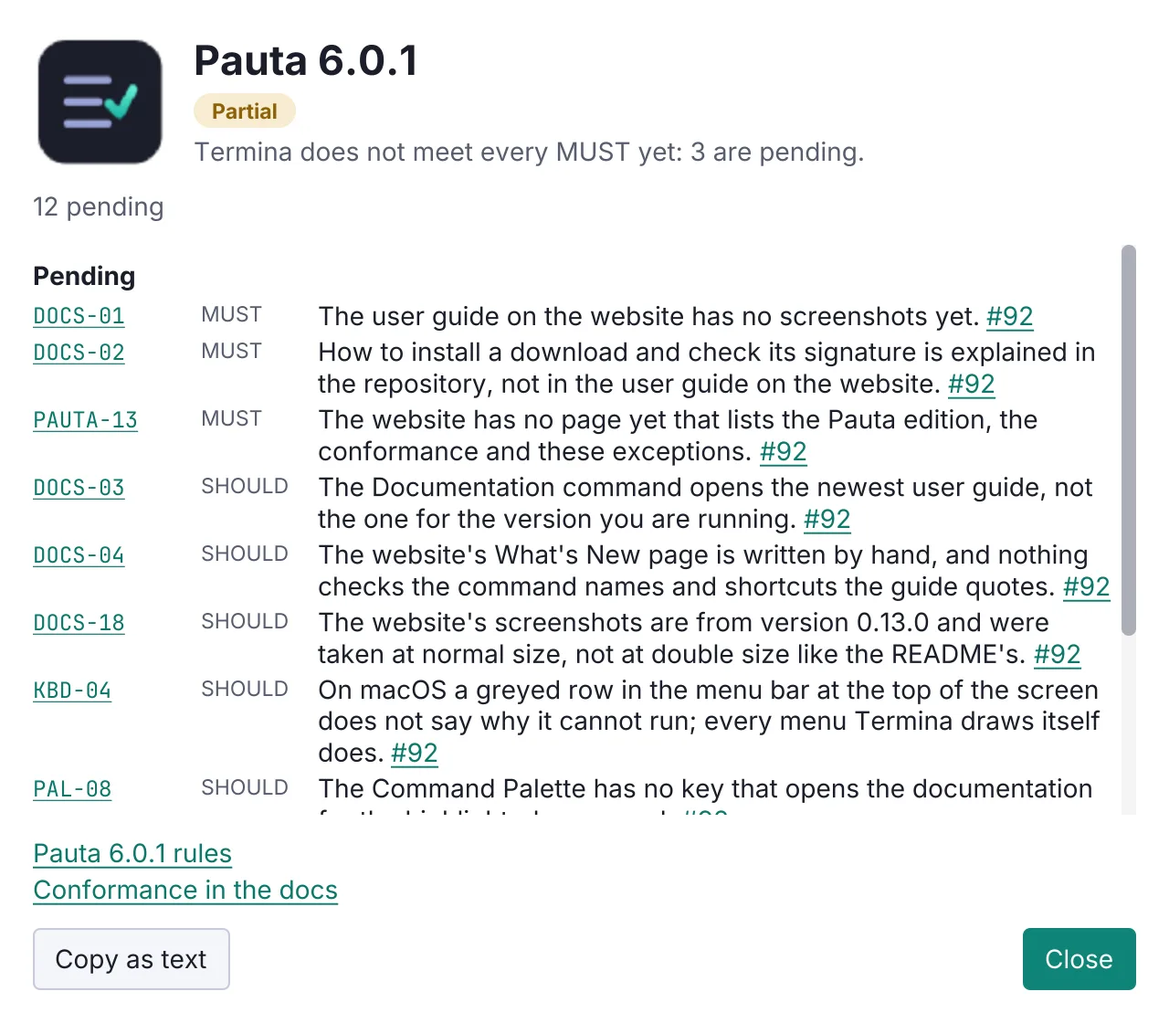
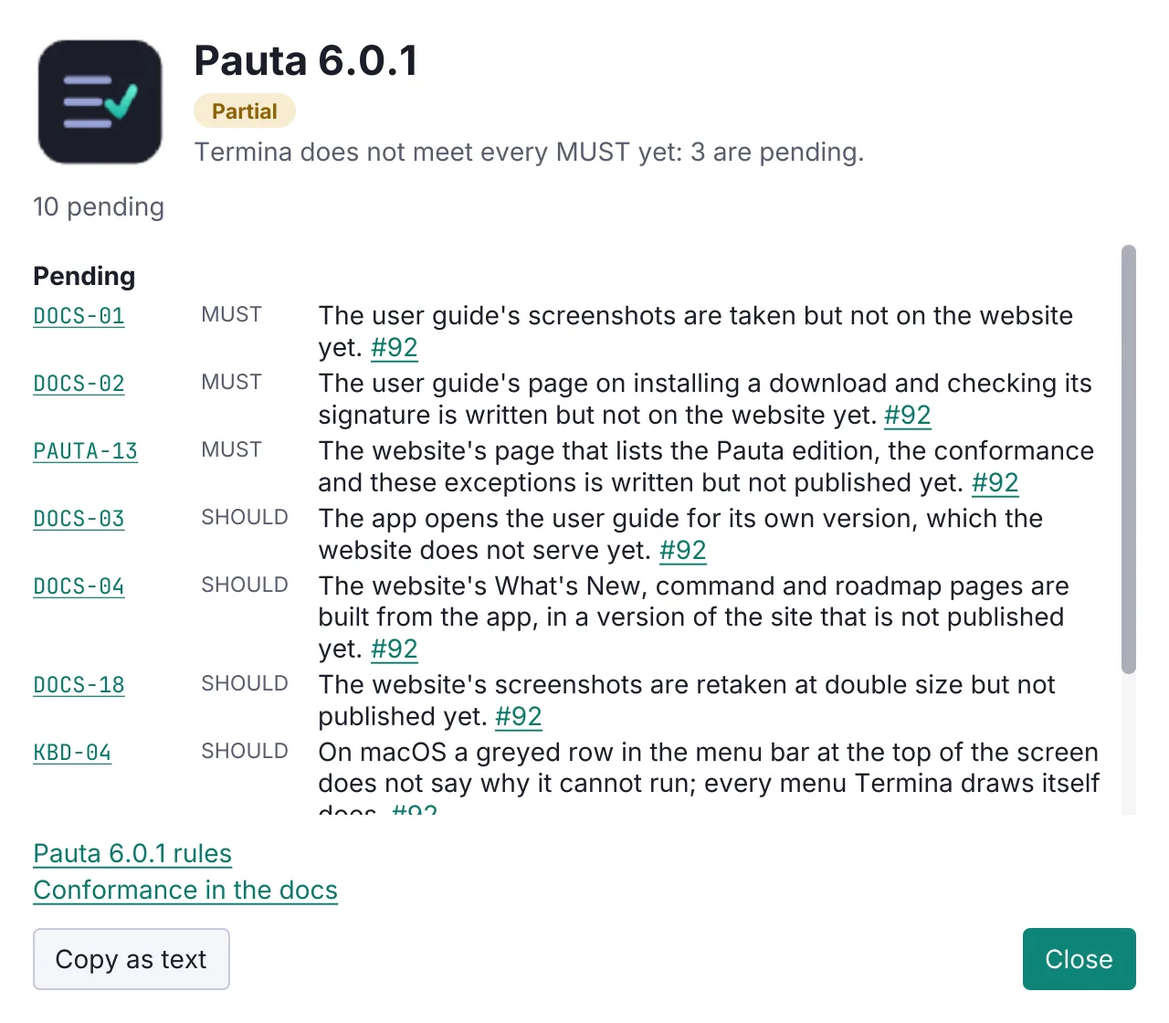
Pickers, Cancel List and the window modes in the guide; regenerated from the app
- keyboard: a Pickers section with its picture; cancelling a list is a fifth
  list command beside the four that move.
- appearance: Zen, Expert and Simple modes; Select Color Theme.
- shell-profiles: New Tab from Profile.
- settings: ui.simpleMode in the key table.
- commands.ts, whats-new.md, roadmap.md, whatsnew.ts and pauta.md regenerated
  from Termina's pauta-6.0.1-last branch as 0.15.0: 122 commands, 10
  exceptions. They are regenerated from the v0.15.0 tag before this merges.
- The Settings and conformance pictures retaken; a picker picture added, and
  its line in scripts/screenshots.sh.

diff --git a/src/lib/commands.ts b/src/lib/commands.ts
@@ -19,6 +19,7 @@ export const commandGroups: CmdGroup[] = [
       { id: "file.closeTabsToTheRight", title: "Close Tabs to the Right", desc: "Closes the tabs to the right of this one, asking once if any is still running a program.", pc: null, mac: null },
       { id: "file.closeWindow", title: "Close Window", desc: "Closes this window and every tab in it.", pc: ["Ctrl", "Shift", "Q"], mac: ["Shift", "Cmd", "W"] },
       { id: "file.newTab", title: "New Tab", desc: "Opens a tab running the default shell.", pc: ["Ctrl", "Shift", "T"], mac: ["Cmd", "T"] },
+      { id: "file.newTabFromProfile", title: "New Tab from Profile…", desc: "Lists every profile by name, with the command it runs, and opens a tab running the one you choose.", pc: null, mac: null },
       { id: "file.newTabProfile1", title: "New Tab With Profile 1", desc: "Opens a tab running profile 1, counted in the profile menu's order.", pc: ["Ctrl", "Shift", "1"], mac: ["Option", "Cmd", "1"] },
       { id: "file.newTabProfile2", title: "New Tab With Profile 2", desc: "Opens a tab running profile 2, counted in the profile menu's order.", pc: ["Ctrl", "Shift", "2"], mac: ["Option", "Cmd", "2"] },
       { id: "file.newTabProfile3", title: "New Tab With Profile 3", desc: "Opens a tab running profile 3, counted in the profile menu's order.", pc: ["Ctrl", "Shift", "3"], mac: ["Option", "Cmd", "3"] },
@@ -58,9 +59,15 @@ export const commandGroups: CmdGroup[] = [
       { id: "view.messageLog", title: "Message Log", desc: "Lists what Termina has reported this session, newest first, with the time of each.", pc: null, mac: null },
       { id: "view.nextPrompt", title: "Next Prompt", desc: "Scrolls down to the next prompt, and back to the live screen after the last.", pc: ["Ctrl", "Shift", "Down"], mac: ["Cmd", "Down"] },
       { id: "view.previousPrompt", title: "Previous Prompt", desc: "Scrolls up to the prompt before this one. Needs the shell to mark its prompts.", pc: ["Ctrl", "Shift", "Up"], mac: ["Cmd", "Up"] },
+      { id: "view.selectCursorShape", title: "Select Cursor Shape…", desc: "Lists the cursor shapes to choose from.", pc: null, mac: null },
+      { id: "view.selectFont", title: "Select Font…", desc: "Lists the monospace fonts on this computer to choose from by typing.", pc: null, mac: null },
+      { id: "view.selectTheme", title: "Select Color Theme…", desc: "Lists every color theme to choose from by typing. Each one is shown as you move to it, and Escape puts back the one you had.", pc: null, mac: null },
+      { id: "view.toggleExpert", title: "Expert Mode", desc: "Hides this window’s menu bar and tab strip and keeps the status bar. No setting changes: leaving the mode brings them back as they were.", pc: null, mac: null },
       { id: "view.toggleMenuBar", title: "Hide Menu Bar", desc: "Hides the menu bar; the right-click menu brings it back.", pc: ["Ctrl", "Shift", "M"], mac: ["Shift", "Cmd", "M"] },
+      { id: "view.toggleSimpleMode", title: "Simple Mode", desc: "Shortens the menu bar to the commands a terminal is used for on the first day, in every window. Every command stays in the Command Palette.", pc: null, mac: null },
       { id: "view.toggleStatusBar", title: "Show Status Bar", desc: "Shows or hides the row under the terminal that says what the last command reported.", pc: null, mac: null },
       { id: "view.toggleTabBar", title: "Show Tab Bar", desc: "Shows or hides the row of tabs, however many are open; hidden, the tabs are still reached by their shortcuts and the Command Palette.", pc: null, mac: null },
+      { id: "view.toggleZen", title: "Zen Mode", desc: "Hides this window’s menu bar, tab strip and status bar, leaving the terminal alone. No setting changes: leaving the mode brings them back as they were.", pc: null, mac: null },
       { id: "view.uiZoomIn", title: "Zoom Interface In", desc: "Makes the menus, tabs, status bar and every other window larger; the terminal text keeps its own size.", pc: null, mac: null },
       { id: "view.uiZoomOut", title: "Zoom Interface Out", desc: "Makes the menus, tabs, status bar and every other window smaller; the terminal text keeps its own size.", pc: null, mac: null },
       { id: "view.uiZoomReset", title: "Reset Interface Zoom", desc: "Returns the menus, tabs, status bar and every other window to 100%.", pc: null, mac: null },
@@ -102,6 +109,7 @@ export const commandGroups: CmdGroup[] = [
   {
     title: "Lists",
     commands: [
+      { id: "nav.cancel", title: "Cancel List", desc: "Closes a list without choosing: the Command Palette, a picker and the Message Log, where its key works. Escape always does the same.", pc: ["Ctrl", "G"], mac: ["Ctrl", "G"] },
       { id: "nav.lineDown", title: "Line Down", desc: "Moves down a line in a list: the Command Palette and the pickers, where its key works. Run as a command, it scrolls the terminal a line towards the newest output.", pc: ["Ctrl", "N"], mac: ["Ctrl", "N"] },
       { id: "nav.lineUp", title: "Line Up", desc: "Moves up a line in a list: the Command Palette and the pickers, where its key works. Run as a command, it scrolls the terminal a line back into its history.", pc: ["Ctrl", "P"], mac: ["Ctrl", "P"] },
       { id: "nav.pageDown", title: "Page Down", desc: "Moves down a page in a list: the Command Palette and the pickers, where its key works. Run as a command, it scrolls the terminal a page towards the newest output.", pc: ["Ctrl", "V"], mac: ["Ctrl", "V"] },
@@ -161,4 +169,4 @@ export const commandGroups: CmdGroup[] = [
   },
 ];
 
-export const commandCount = 114;
+export const commandCount = 122;

diff --git a/src/lib/whatsnew.ts b/src/lib/whatsnew.ts
@@ -6,12 +6,12 @@ export type NewsItem = { title: string; detail: string };
 
 export const whatsNew: NewsItem[] = [
   { title: "Termina 0.15.0", detail: "Out for macOS (Apple Silicon and Intel), Windows (x64) and Linux (x64 and ARM64), each installer with its own Java runtime." },
+  { title: "Three window modes", detail: "In the View menu, the Command Palette and bindable under Settings ▸ Keyboard: - Zen Mode hides the window's menu bar, tab strip and status bar and leaves the terminal alone. - Expert Mode hides the menu bar and the tab strip and keeps the status bar." },
+  { title: "Pickers: a list to type into for a choice from a list", detail: "Four commands, in the Command Palette and bindable under Settings ▸ Keyboard: Select Color Theme, Select Font, Select Cursor Shape and New Tab from Profile. Each opens on the value in force." },
+  { title: "Cancelling a list is a command, Cancel List", detail: "On Ctrl+G by default and bindable under Settings ▸ Keyboard like the four that move a line and a page. The Command Palette, the pickers and the Message Log all close on its chord, and on Escape whatever is bound." },
+  { title: "The Message Log moves on Ctrl+N and Ctrl+P and closes on Ctrl+G", detail: "The keys of the palette and the pickers, or whichever chords you have given those commands." },
+  { title: "A help key in the Command Palette", detail: "Ctrl+H opens the highlighted command's page of the user guide in your browser; the palette stays open. It is F1, or Shift+F1, if you have given Ctrl+H to a command." },
   { title: "A High Contrast theme", detail: "White on black, a single cyan accent, and every colour of the terminal and of the windows at 7:1 or better on the black. Choose it like any theme." },
-  { title: "The tabs you had open come back at the next launch", detail: "Each tab and pane reopens as a new shell in the folder it was in, with the names you gave, the pinned tabs pinned and the same tab in front. The programs that were running are not started again, and a tab opened with <code>-e</code> comes back as a shell." },
-  { title: "Each page of Settings ends in a link to its help", detail: "Help for Appearance, Help for Profiles and so on, opening that page of the documentation." },
-  { title: "<code>TODO.md</code>", detail: "<code>TODO.md</code> is the open list: the Pauta rules not met yet, what has never been run, and the terminal features not done. It changes in the same pull request as the work." },
-  { title: "Help ▸ Doctor", detail: "Help ▸ Doctor checks what Termina relies on: the shell it starts, its settings folder, Git and the GitHub CLI for settings sync, and on Linux the tools for the selection clipboard, notifications and opening links. Each row says OK, Missing, Optional or Problem in words, with what was found, and a row that is not OK says what to install and links to it." },
-  { title: "<code>--dev</code>", detail: "<code>--dev</code> keeps a separate set of settings in <code>~/.termina-dev</code>, so a build being tried out never touches the ones in daily use. <code>--config-dir</code> still takes precedence, and <code>--dev</code> wins over <code>TERMINA_CONFIG_DIR</code>: what is typed on the command line is the more specific instruction." },
 ];
 
 export const next: NewsItem[] = [

diff --git a/src/content/docs/pauta.md b/src/content/docs/pauta.md
@@ -29,19 +29,17 @@ and the conformance.
 
 ## Pending
 
-Rules Termina does not meet yet. Each one links the issue that tracks it. 12 rules: 3 MUST, 9 SHOULD.
+Rules Termina does not meet yet. Each one links the issue that tracks it. 10 rules: 3 MUST, 7 SHOULD.
 
 | Rule | Level | What is different | Link |
 |---|---|---|---|
-| <a href="https://pauta-project.dev/6.0.1/documentation/#docs-01" style="white-space: nowrap"><code>DOCS-01</code></a> | MUST | The user guide on the website has no screenshots yet. | [#92](https://github.com/adriandeleon/Termina/issues/92) |
-| <a href="https://pauta-project.dev/6.0.1/documentation/#docs-02" style="white-space: nowrap"><code>DOCS-02</code></a> | MUST | How to install a download and check its signature is explained in the repository, not in the user guide on the website. | [#92](https://github.com/adriandeleon/Termina/issues/92) |
-| <a href="https://pauta-project.dev/6.0.1/conformance/#pauta-13" style="white-space: nowrap"><code>PAUTA-13</code></a> | MUST | The website has no page yet that lists the Pauta edition, the conformance and these exceptions. | [#92](https://github.com/adriandeleon/Termina/issues/92) |
-| <a href="https://pauta-project.dev/6.0.1/documentation/#docs-03" style="white-space: nowrap"><code>DOCS-03</code></a> | SHOULD | The Documentation command opens the newest user guide, not the one for the version you are running. | [#92](https://github.com/adriandeleon/Termina/issues/92) |
-| <a href="https://pauta-project.dev/6.0.1/documentation/#docs-04" style="white-space: nowrap"><code>DOCS-04</code></a> | SHOULD | The website's What's New page is written by hand, and nothing checks the command names and shortcuts the guide quotes. | [#92](https://github.com/adriandeleon/Termina/issues/92) |
-| <a href="https://pauta-project.dev/6.0.1/documentation/#docs-18" style="white-space: nowrap"><code>DOCS-18</code></a> | SHOULD | The website's screenshots are from version 0.13.0 and were taken at normal size, not at double size like the README's. | [#92](https://github.com/adriandeleon/Termina/issues/92) |
+| <a href="https://pauta-project.dev/6.0.1/documentation/#docs-01" style="white-space: nowrap"><code>DOCS-01</code></a> | MUST | The user guide's screenshots are taken but not on the website yet. | [#92](https://github.com/adriandeleon/Termina/issues/92) |
+| <a href="https://pauta-project.dev/6.0.1/documentation/#docs-02" style="white-space: nowrap"><code>DOCS-02</code></a> | MUST | The user guide's page on installing a download and checking its signature is written but not on the website yet. | [#92](https://github.com/adriandeleon/Termina/issues/92) |
+| <a href="https://pauta-project.dev/6.0.1/conformance/#pauta-13" style="white-space: nowrap"><code>PAUTA-13</code></a> | MUST | The website's page that lists the Pauta edition, the conformance and these exceptions is written but not published yet. | [#92](https://github.com/adriandeleon/Termina/issues/92) |
+| <a href="https://pauta-project.dev/6.0.1/documentation/#docs-03" style="white-space: nowrap"><code>DOCS-03</code></a> | SHOULD | The app opens the user guide for its own version, which the website does not serve yet. | [#92](https://github.com/adriandeleon/Termina/issues/92) |
+| <a href="https://pauta-project.dev/6.0.1/documentation/#docs-04" style="white-space: nowrap"><code>DOCS-04</code></a> | SHOULD | The website's What's New, command and roadmap pages are built from the app, in a version of the site that is not published yet. | [#92](https://github.com/adriandeleon/Termina/issues/92) |
+| <a href="https://pauta-project.dev/6.0.1/documentation/#docs-18" style="white-space: nowrap"><code>DOCS-18</code></a> | SHOULD | The website's screenshots are retaken at double size but not published yet. | [#92](https://github.com/adriandeleon/Termina/issues/92) |
 | <a href="https://pauta-project.dev/6.0.1/keyboard/#kbd-04" style="white-space: nowrap"><code>KBD-04</code></a> | SHOULD | On macOS a greyed row in the menu bar at the top of the screen does not say why it cannot run; every menu Termina draws itself does. | [#92](https://github.com/adriandeleon/Termina/issues/92) |
-| <a href="https://pauta-project.dev/6.0.1/templates/command-palette/#pal-08" style="white-space: nowrap"><code>PAL-08</code></a> | SHOULD | The Command Palette has no key that opens the documentation for the highlighted command. | [#92](https://github.com/adriandeleon/Termina/issues/92) |
-| <a href="https://pauta-project.dev/6.0.1/conformance/#pauta-14" style="white-space: nowrap"><code>PAUTA-14</code></a> | SHOULD | The website cannot build its conformance page from this list yet. | [#92](https://github.com/adriandeleon/Termina/issues/92) |
-| <a href="https://pauta-project.dev/6.0.1/platform/#plat-14" style="white-space: nowrap"><code>PLAT-14</code></a> | SHOULD | The settings file is read and written by hand-written code and not by the JSON library the guidelines name. | [#92](https://github.com/adriandeleon/Termina/issues/92) |
-| <a href="https://pauta-project.dev/6.0.1/templates/quick-open/#qopen-01" style="white-space: nowrap"><code>QOPEN-01</code></a> | SHOULD | There is no quick picker for themes, profiles or a setting's values; each is a separate row of the Command Palette. | [#92](https://github.com/adriandeleon/Termina/issues/92) |
+| <a href="https://pauta-project.dev/6.0.1/templates/command-palette/#pal-08" style="white-space: nowrap"><code>PAL-08</code></a> | SHOULD | The Command Palette's help key opens a command's page of the user guide, which the website does not serve yet. | [#92](https://github.com/adriandeleon/Termina/issues/92) |
+| <a href="https://pauta-project.dev/6.0.1/conformance/#pauta-14" style="white-space: nowrap"><code>PAUTA-14</code></a> | SHOULD | The website builds its conformance page from this list, in a version of the site that is not published yet. | [#92](https://github.com/adriandeleon/Termina/issues/92) |
 | <a href="https://pauta-project.dev/6.0.1/release/#rel-17" style="white-space: nowrap"><code>REL-17</code></a> | SHOULD | The Windows installer is not signed. | [#92](https://github.com/adriandeleon/Termina/issues/92) |

diff --git a/src/content/docs/whats-new.md b/src/content/docs/whats-new.md
@@ -18,6 +18,35 @@ done.
 
 ### Added
 
+- **Three window modes**, in the View menu, the Command Palette and bindable under Settings ▸
+  Keyboard:
+  - **Zen Mode** hides the window's menu bar, tab strip and status bar and leaves the terminal
+    alone.
+  - **Expert Mode** hides the menu bar and the tab strip and keeps the status bar.
+  - **Simple Mode** keeps everything and shortens the menu bar to four menus of everyday
+    commands, for someone new to Termina. It is also Settings ▸ Appearance ▸ Simple mode.
+
+  Zen and Expert belong to one window, last until it closes and change no setting, so leaving
+  the mode brings back exactly what was there. With the menu bar hidden the way out is the
+  Command Palette, which lists Leave Zen Mode or Leave Expert Mode, and the Message Log says so
+  when the mode starts. Simple Mode is a setting and applies to every window. In every mode each
+  command keeps its chord and its row in the palette. On macOS the menus are in the screen's menu
+  bar, which Zen and Expert do not hide.
+- **Pickers: a list to type into for a choice from a list.** Four commands, in the Command
+  Palette and bindable under Settings ▸ Keyboard: **Select Color Theme**, **Select Font**,
+  **Select Cursor Shape** and **New Tab from Profile**. Each opens on the value in force. Type to
+  narrow the list, move with the arrows or Ctrl+N and Ctrl+P, Enter chooses, Escape or Ctrl+G
+  cancels. Select Color Theme shows each theme in the window as you move to it and puts back the
+  one you had if you cancel.
+- **Cancelling a list is a command, Cancel List**, on Ctrl+G by default and bindable under
+  Settings ▸ Keyboard like the four that move a line and a page. The Command Palette, the pickers
+  and the Message Log all close on its chord, and on Escape whatever is bound. Ctrl+G was fixed in
+  the palette before, and with the terminal in front it stays the shell's.
+- **The Message Log moves on Ctrl+N and Ctrl+P and closes on Ctrl+G**, the keys of the palette
+  and the pickers, or whichever chords you have given those commands.
+- **A help key in the Command Palette.** Ctrl+H opens the highlighted command's page of the user
+  guide in your browser; the palette stays open. It is F1, or Shift+F1, if you have given Ctrl+H
+  to a command. The palette's legend names the key.
 - **A High Contrast theme**: white on black, a single cyan accent, and every colour of the
   terminal and of the windows at 7:1 or better on the black. Choose it like any theme. On Windows,
   Termina switches to it while the system's high-contrast mode is on and back to your own theme
@@ -147,6 +176,15 @@ done.
 
 ### Changed
 
+- **An imported colour scheme is stored as JSON.** A theme is `themes/<name>.json` in the settings
+  folder, where it was `<name>.properties`. Each theme you have is rewritten the first time
+  Termina starts, under the same name, and the file it was is kept beside it as
+  `<name>.properties.migrated`. Nothing that uses a theme changes. A configuration zip exported
+  by an older Termina still imports. The settings, the window state and the session's tabs are
+  read and written by Jackson as plain classes now and look the same on disk.
+- **Help opens the guide for the version you are running.** Documentation, the Help link on each
+  page of Settings and the Pauta window's link open `termina-project.dev/docs/v-<version>/`, where
+  they opened the newest guide whatever the version.
 - **The palette's movement keys can be changed.** Moving a line and a page in the Command
   Palette are four commands now, Line Down, Line Up, Page Down and Page Up, under Settings ▸
   Keyboard: Ctrl+N, Ctrl+P, Ctrl+V and Alt+V as before, until you move them. The arrows and Page

diff --git a/src/content/docs/roadmap.md b/src/content/docs/roadmap.md
@@ -23,20 +23,18 @@ A test fails when this list and that file disagree.
 
 ### MUST
 
-- [ ] **[PAUTA-13](https://pauta-project.dev/6.0.1/conformance/#pauta-13)** The website has no page yet that lists the Pauta edition, the conformance and these exceptions.
-- [ ] **[DOCS-01](https://pauta-project.dev/6.0.1/documentation/#docs-01)** The user guide on the website has no screenshots yet.
-- [ ] **[DOCS-02](https://pauta-project.dev/6.0.1/documentation/#docs-02)** How to install a download and check its signature is explained in the repository, not in the user guide on the website.
+- [ ] **[PAUTA-13](https://pauta-project.dev/6.0.1/conformance/#pauta-13)** The website's page that lists the Pauta edition, the conformance and these exceptions is written but not published yet.
+- [ ] **[DOCS-01](https://pauta-project.dev/6.0.1/documentation/#docs-01)** The user guide's screenshots are taken but not on the website yet.
+- [ ] **[DOCS-02](https://pauta-project.dev/6.0.1/documentation/#docs-02)** The user guide's page on installing a download and checking its signature is written but not on the website yet.
 
 ### SHOULD
 
-- [ ] **[PAUTA-14](https://pauta-project.dev/6.0.1/conformance/#pauta-14)** The website cannot build its conformance page from this list yet.
-- [ ] **[PLAT-14](https://pauta-project.dev/6.0.1/platform/#plat-14)** The settings file is read and written by hand-written code and not by the JSON library the guidelines name.
-- [ ] **[DOCS-03](https://pauta-project.dev/6.0.1/documentation/#docs-03)** The Documentation command opens the newest user guide, not the one for the version you are running.
-- [ ] **[DOCS-04](https://pauta-project.dev/6.0.1/documentation/#docs-04)** The website's What's New page is written by hand, and nothing checks the command names and shortcuts the guide quotes.
-- [ ] **[DOCS-18](https://pauta-project.dev/6.0.1/documentation/#docs-18)** The website's screenshots are from version 0.13.0 and were taken at normal size, not at double size like the README's.
+- [ ] **[PAUTA-14](https://pauta-project.dev/6.0.1/conformance/#pauta-14)** The website builds its conformance page from this list, in a version of the site that is not published yet.
+- [ ] **[DOCS-03](https://pauta-project.dev/6.0.1/documentation/#docs-03)** The app opens the user guide for its own version, which the website does not serve yet.
+- [ ] **[DOCS-04](https://pauta-project.dev/6.0.1/documentation/#docs-04)** The website's What's New, command and roadmap pages are built from the app, in a version of the site that is not published yet.
+- [ ] **[DOCS-18](https://pauta-project.dev/6.0.1/documentation/#docs-18)** The website's screenshots are retaken at double size but not published yet.
 - [ ] **[KBD-04](https://pauta-project.dev/6.0.1/keyboard/#kbd-04)** On macOS a greyed row in the menu bar at the top of the screen does not say why it cannot run; every menu Termina draws itself does.
-- [ ] **[PAL-08](https://pauta-project.dev/6.0.1/templates/command-palette/#pal-08)** The Command Palette has no key that opens the documentation for the highlighted command.
-- [ ] **[QOPEN-01](https://pauta-project.dev/6.0.1/templates/quick-open/#qopen-01)** There is no quick picker for themes, profiles or a setting's values; each is a separate row of the Command Palette.
+- [ ] **[PAL-08](https://pauta-project.dev/6.0.1/templates/command-palette/#pal-08)** The Command Palette's help key opens a command's page of the user guide, which the website does not serve yet.
 - [ ] **[REL-17](https://pauta-project.dev/6.0.1/release/#rel-17)** The Windows installer is not signed.
 
 One optional rule is not met and has no entry there: window modes that hide chrome

diff --git a/src/content/docs/keyboard.md b/src/content/docs/keyboard.md
@@ -62,7 +62,7 @@ The keys in it are the arrows and Emacs's:
 | `Ctrl+V` / `Alt+V` (`Ctrl+V` / `Option+V`) | Page Down / Page Up |
 | `Alt+<` / `Alt+>` | First / last row |
 | `Ctrl+H` | Open the highlighted command's page of this guide |
-| `Ctrl+G`, `Esc` | Close |
+| `Ctrl+G`, `Esc` | Cancel List: close without running anything |
 
 The query field takes the Emacs editing keys: `Ctrl+A`, `Ctrl+E`, `Ctrl+F`, `Ctrl+B`, `Alt+F`,
 `Alt+B`, `Ctrl+D`, `Ctrl+K`, `Alt+D`, `Ctrl+W`, `Alt+W`, `Ctrl+Y` and `Ctrl+/`.
@@ -70,15 +70,34 @@ The query field takes the Emacs editing keys: `Ctrl+A`, `Ctrl+E`, `Ctrl+F`, `Ctr
 ### Moving in the list
 
 Moving a line and a page are four commands: **Line Down**, **Line Up**, **Page Down** and **Page
-Up**. They are listed under View on **Settings → Keyboard**, where each can be given another
-shortcut.
+Up**. Closing a list without choosing is a fifth, **Cancel List**. They are listed under View on
+**Settings → Keyboard**, where each can be given another shortcut.
 
-- **The defaults are Emacs's**: `Ctrl+N`, `Ctrl+P`, `Ctrl+V` and `Alt+V`, the same on every
-  system.
-- **The arrows, `PageUp` and `PageDown` always work**, whatever the four commands are on.
-- **Their keys act only in a list.** With the terminal in front, `Ctrl+N` and `Ctrl+P` still
-  reach the shell.
-- **Run from the palette, the four scroll the terminal's history** a line or a page.
+- **The defaults are Emacs's**: `Ctrl+N`, `Ctrl+P`, `Ctrl+V`, `Alt+V` and `Ctrl+G`, the same on
+  every system.
+- **The arrows, `PageUp`, `PageDown` and `Esc` always work**, whatever the five commands are on.
+- **Their keys act only in a list**: the palette, a [picker](#pickers) and the Message Log. With
+  the terminal in front, `Ctrl+N`, `Ctrl+P` and `Ctrl+G` still reach the shell.
+- **Run from the palette, the four that move scroll the terminal's history** a line or a page.
+
+### Pickers
+
+A picker is the palette's card for choosing one thing from a list: a title naming the command, a
+field to type in, and the list, opened on the value in force. Four commands open one. They are in
+the palette, and Settings → Keyboard can give each a shortcut:
+
+| Command | Lists |
+| --- | --- |
+| **Select Color Theme…** | Every theme. Each is shown in the window as you move to it, and `Esc` puts back the one you had |
+| **Select Font…** | The monospace fonts on this computer |
+| **Select Cursor Shape…** | Block, Underline and Bar |
+| **New Tab from Profile…** | Every profile by name, with the command it runs |
+
+![The Select Color Theme picker over the terminal: a title, a field to type in, and the themes with the one in force highlighted](/screenshots/docs/picker.png "Select Color Theme opens on the theme in force; moving shows each theme in the window.")
+
+Type to narrow the list; the best match leads, and rows that match equally stay in the list's
+own order. The keys are the palette's: the arrows and `Ctrl+N` / `Ctrl+P` move, `Enter` or a click
+chooses, `Esc` or `Ctrl+G` cancels.
 
 ### Help for a command
 

diff --git a/src/content/docs/appearance.md b/src/content/docs/appearance.md
@@ -12,7 +12,8 @@ font, so you can see a theme or a font before you look back at the terminal.
 ## Themes
 
 **Settings → Appearance → Theme → Color theme**, or type "theme" in the
-[command palette](/docs/keyboard#the-command-palette). The theme applies to every window, the
+[command palette](/docs/keyboard#the-command-palette). **Select Color Theme…** there opens a
+[picker](/docs/keyboard#pickers) that shows each theme in the window as you move through the list. The theme applies to every window, the
 terminal palette and Termina's own dialogs. A [profile](#a-profiles-own-font-and-theme) can have a
 theme of its own, which then wins in its panes. Five themes are built in, one more choice follows
 the system, and any number can be [imported](#importing-a-theme).
@@ -186,6 +187,28 @@ See [Shell profiles](/docs/shell-profiles#a-profiles-own-font-and-theme).
 - **Show the tab bar** (on by default). Off, the row of tabs is hidden however many are open.
   **View → Hide Tab Bar** is the same switch. The tabs are still reached by their shortcuts, the
   tab menu and the palette.
+
+### Zen, Expert and Simple modes
+
+Three commands in the **View** menu change how much of the window is chrome. Each is also in the
+palette, and Settings → Keyboard can give each a shortcut.
+
+| Mode | Shows |
+| --- | --- |
+| **Zen Mode** | The terminal alone: no menu bar, no tab strip, no status bar |
+| **Expert Mode** | The terminal and the status bar: no menu bar, no tab strip |
+| **Simple Mode** | Everything, with a shorter menu bar: File, Edit, View and Help, each with its everyday commands |
+
+- **Zen and Expert belong to one window** and last until it closes. They change no setting, so
+  leaving the mode brings back exactly what was there. Entering one leaves the other.
+- **The way out is the command again**, which is named **Leave Zen Mode** or **Leave Expert
+  Mode** while its mode is on. With the menu bar hidden, find it in the palette
+  (`Ctrl+Shift+P`, `Cmd+Shift+P` on macOS); the Message Log says so when the mode starts.
+- **Tabs are still there** in both, reached by their shortcuts and by name in the palette.
+- **Simple Mode is a setting**, **Settings → Appearance → Window → Simple mode**, and applies to
+  every window. Every command keeps its shortcut and its row in the palette; only the menus are
+  shorter. **View → Leave Simple Mode** brings the full menus back.
+- **On macOS** the menus are in the screen's menu bar, which Zen and Expert do not hide.
 
 If you came from a version before 0.15 and never changed them, the status bar and the menu bar in
 the title bar are new to you: both used to start off. A choice you had already made is kept.

diff --git a/src/content/docs/shell-profiles.md b/src/content/docs/shell-profiles.md
@@ -66,7 +66,9 @@ PowerShell, then Command Prompt, whichever is found first.
   With** in a tab's right-click menu carries the whole list, as the chevron does.
 - **`Ctrl+Shift+1`…`Ctrl+Shift+9`** (`Cmd+Option+1`…`Cmd+Option+9` on macOS) open the first nine
   profiles in the list. A number past the end does nothing.
-- **The command palette** lists every profile as **New Tab: *name***.
+- **The command palette** lists every profile as **New Tab: *name***, and **New Tab from
+  Profile…** there opens a [picker](/docs/keyboard#pickers) of them all with the command each
+  runs.
 
 A profile with no starting directory opens in the current tab's directory, like a plain new tab.
 The default is marked rather than moved to the top, so the numbers bound to chords do not shift.

diff --git a/src/content/docs/settings.md b/src/content/docs/settings.md
@@ -222,6 +222,7 @@ The keys most worth knowing, all in `settings.json`:
 | `window.menuBarInTitleBar` | `true`, `false` | `true` |
 | `ui.showScrollBar` | `true`, `false` | `true` |
 | `ui.showStatusBar` | `true`, `false` | `true` |
+| `ui.simpleMode` | `true`, `false`: the shorter menu bar | `false` |
 | `ui.zoom` | 80 to 200, the interface zoom in percent | `100` |
 | `ui.confirmClose` | `true`, `false` | `true` |
 | `session.restore` | `true`, `false` | `true` |
